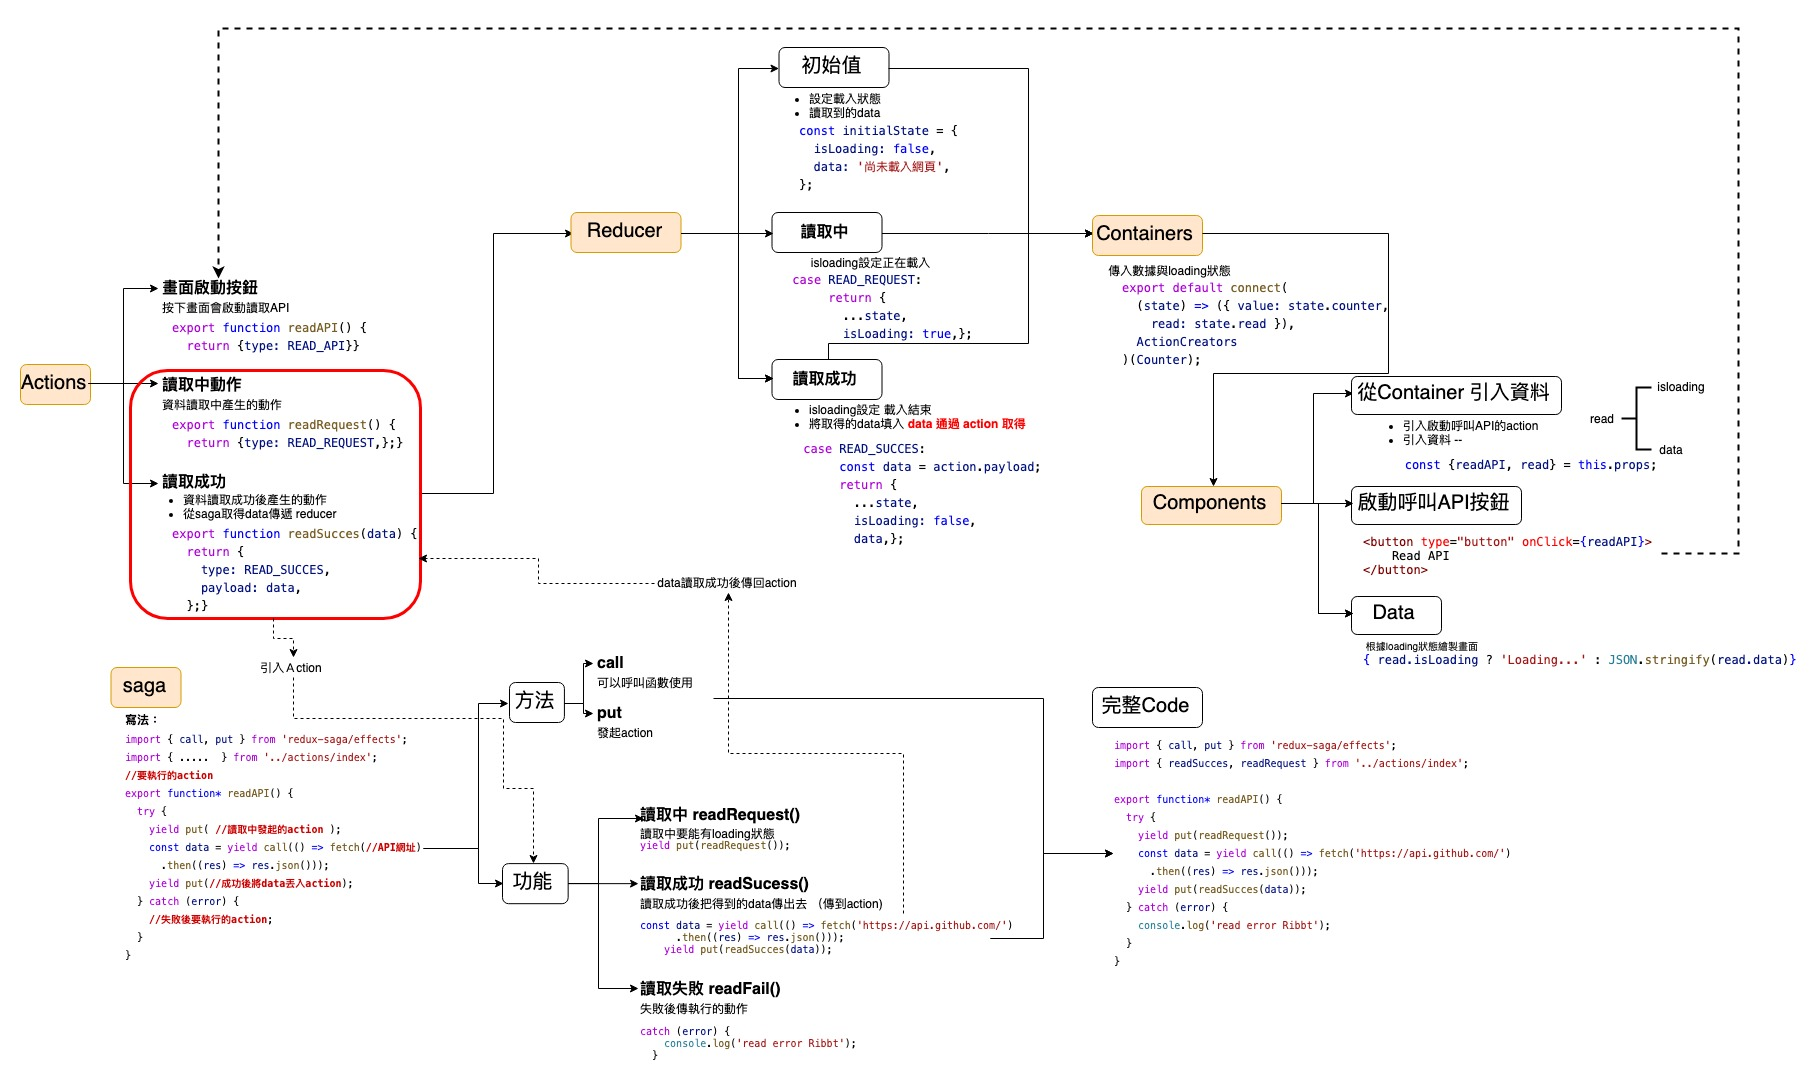
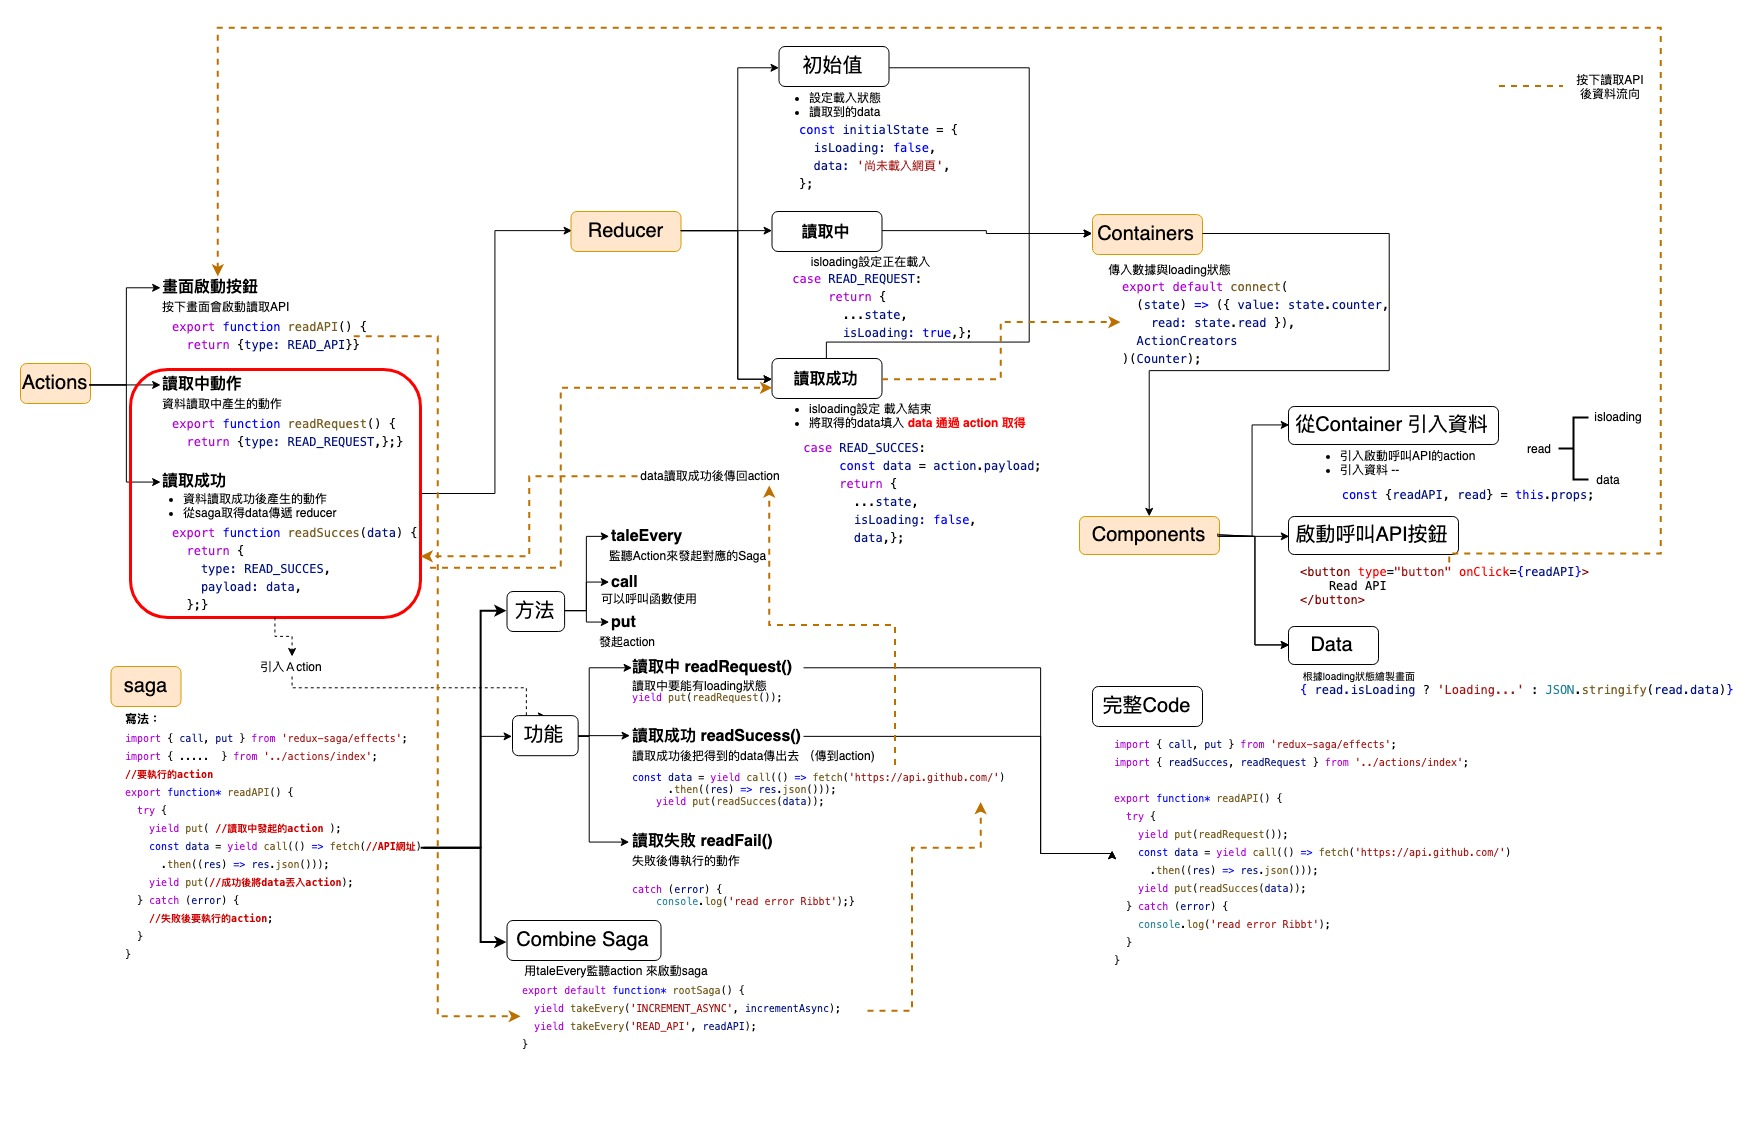
update README

diff --git a/src/sagas/index.js b/src/sagas/index.js
@@ -3,11 +3,9 @@
 import { takeEvery } from 'redux-saga/effects';
 import readAPI from './readAPI';
 import incrementAsync from './incrementAsync';
-import readFirebas from './ReadFirebase';
 
 
 export default function* rootSaga() {
   yield takeEvery('INCREMENT_ASYNC', incrementAsync);
   yield takeEvery('READ_API', readAPI);
-  yield takeEvery('READ_FIREBASE', readFirebas);
 }

diff --git a/README.md b/README.md
@@ -1,0 +1,221 @@
+# Redux Saga 讀取API簡易範例
+
+## [Demo](https://codesandbox.io/s/github/React-Learing/saga-get-API-data)
+
+![](https://i.imgur.com/KuS6Mtt.png)
+
+繼上次使用Redux-Saga來執行非同步的加減後，我們開始來試著使用Saga的最主要的功能-讀取伺服器的API資料。我們要讀取的api [目標](https://api.github.com/)
+
+[進階React Redux範例-使用Saga達成非同步](https://medium.com/tomsnote/進階react-redux範例-使用saga達成非同步-e044342823ed)
+
+## Saga
+
+既然是要寫saga，那我們就先從saga文件開始寫吧！要讀取API的Saga文件寫法大致如下。
+
+```js
+import { call, put } from 'redux-saga/effects';
+import { .....  } from '../actions/index';
+//要執行的action
+export function* readAPI() {
+  try {
+     //開始要執行的動作
+    yield put( //讀取中發起的action );
+    const data = yield call(() => fetch(//API網址)
+      .then((res) => res.json()));
+    yield put(//成功後將data丟入action);
+  } catch (error) {
+    //失敗後要執行的action;
+  }
+}
+```
+
+這邊從saga引入call和put的方法，call可以讓你調用函數使用，put則是可以發起action。也就是在某些階段發起某些動作改變狀態。
+
+在這邊讀取資料的話會有三種狀態：
+
+- 讀取中
+- 讀取成功
+- 讀取失敗
+
+讀取中就是當和伺服器發出請求等資料回傳的時候，在這個時候我們要在畫面顯示loading..的狀態，讓使用者知道現在正在讀取。讀取成功，就將得到的資料解析完成後透過action傳到reducer最後傳到畫面上。那如果失敗的話，也可以回傳個狀態告訴使用者讀取失敗了。
+
+**讀取中**：
+
+發起正在request的action，將這個action函數放到put()裡面去啟用他。在發起讀取的request的時候，接著使用call()使用fetch去獲取api的位置。
+
+```js
+yield put(readRequest());
+const data = yield call(() => fetch('https://api.github.com/')
+        								.then((res) => res.json()));
+
+```
+
+**讀取成功**：
+
+待檔案fetch讀取成功後使用put()把得到的data傳出去 （傳到action)
+
+```js
+    yield put(readSucces(data));
+```
+
+**讀取失敗:**
+
+catch裡面裡面會捕捉到如果獲取失敗的話要執行的動作，當然也可以寫一個action去執行對應的動作。
+
+```js
+catch (error) {
+    console.log('read error Ribbt');
+  }
+```
+
+**連結Saga**
+
+在Saga文件夾裡面的index將寫好的saga檔案連結起來，使用takeEvery的發法監聽發起的**'READ_API'**，當發起這個action，就啟動讀取API的Saga。
+
+```js
+import { takeEvery } from 'redux-saga/effects';
+import readAPI from './readAPI';
+...
+export default function* rootSaga() {
+	...
+  yield takeEvery('READ_API', readAPI);
+}
+```
+
+Saga完整的code:
+
+```js
+import { call, put } from 'redux-saga/effects';
+import { readSucces, readRequest } from '../actions/index';
+
+export function* readAPI() {
+  try {
+    yield put(readRequest());
+    const data = yield call(() => fetch('https://api.github.com/')
+      .then((res) => res.json()));
+    yield put(readSucces(data));
+  } catch (error) {
+    console.log('read error Ribbt');
+  }
+}
+```
+
+## Actions
+
+在saga裡面，我們做了三種狀態要來發起actions，那我們是不是也該來寫對應的actions了呢？不過讀取失敗這個狀態在前面我用印出在console.log()來告知使用者讀取失敗，雖然使用者應該看不到啦XD。
+
+除了和讀取相關的action以外，也需要寫一個按按鈕發起讀取API的actions
+
+>1. 讀取中：readRequest()
+>2. 讀取成功：readSucces()
+>3. 發起讀取API動作: readAPI()
+
+```js
+...
+export const READ_API = 'READ_API';
+export const READ_SUCCES = 'READ_SUCCES';
+export const READ_REQUEST = 'READ_REQUEST';
+...
+
+export function readAPI() {
+  return {
+    type: READ_API,
+  };
+}
+
+export function readSucces(data) {
+  return {
+    type: READ_SUCCES,
+    payload: data,
+  };
+}
+
+export function readRequest() {
+  return {
+    type: READ_REQUEST,
+  };
+}
+```
+
+在讀取成功的Action ( readSucces() )，把從saga讀到的資料傳入。接著可以藉由這個地方傳到reducer。
+
+## Reducer
+
+在reducer這個部分，需要根據不同的action來改變不同的狀態。先設定初始狀態，loading狀態一開始是false，表示並沒有在載入。
+
+```js
+const initialState = {
+  isLoading: false,
+  data: '尚未載入網頁',
+};
+```
+
+再來是讀取中的狀態，發起讀取的request就是讀起中，修改狀態isloading為true，表示正在讀取中。
+
+```js
+case READ_REQUEST:
+      return {
+        ...state,
+        isLoading: true,};
+```
+
+接著是讀取成功，讀取成功後，isloading修改為false，並把action讀到的data丟進去state的data裡面。
+
+```js
+ case READ_SUCCES:
+      const data = action.payload;
+      return {
+        ...state,
+        isLoading: false,
+        data,};
+```
+
+## Container
+
+接著使用container取得讀取完成的檔案並把它傳入元件裡面，因為檔案的都被存到redux的store裡面，所以只要叫state裡面的資料就能看到reducer取得的檔案了。
+
+```js
+export default connect(
+  (state) => ({ value: state.counter, read: state.read }),
+  ActionCreators
+)(Counter);
+```
+
+## Components
+
+首先從container引入啟動呼叫api的action (readAPI() )還有要讀取的資料與loading狀態 (read)
+
+```js
+   const {readAPI, read} = this.props;
+```
+
+最後來把畫面啟動API的按鈕寫上去，按下的時候，呼叫actions傳入的readAPI()的函數啟動呼叫API的action type。
+
+```html
+<button type="button" onClick={readAPI}>
+    Read API
+</button>
+```
+
+畫面根據不同狀態顯示，如果loading狀態是true的話，就顯示'Loading...'表示正在載入，如果是false就顯示資料。
+
+```js
+{ read.isLoading ? 'Loading...' : JSON.stringify(read.data)}
+```
+
+------
+
+到這邊就完成了，可以試著按下畫面上的讀取API的按鈕，接著會顯示loading的字樣表示在獲取資料，待資料獲取後，就會換成顯示得的的資料了。
+
+## 資料流向
+
+按下畫面的按鈕後，會啟動readAPI()的函數並啟動READ_API的action type，接著因為saga監聽到這個action type並啟動讀起功能的saga。
+
+在saga裡面我們先設定了讓資料表示正在loading的狀態，接著讀取到資料後，將資料丟到action裡面。
+
+接著reducer跟著讀取成功的action type (READ_SUCCES) 將資料透過store後經由讀取state傳到conatiner，在傳到components裡面去改變畫面。
+
+整個過程看文字會看得滿複雜的，我們畫一張流程整理圖，建議可以對著看，或是之後複習的時候可以更快想起來。
+
+![saga ftech api](https://i.imgur.com/8VBrXIp.jpg)
+
